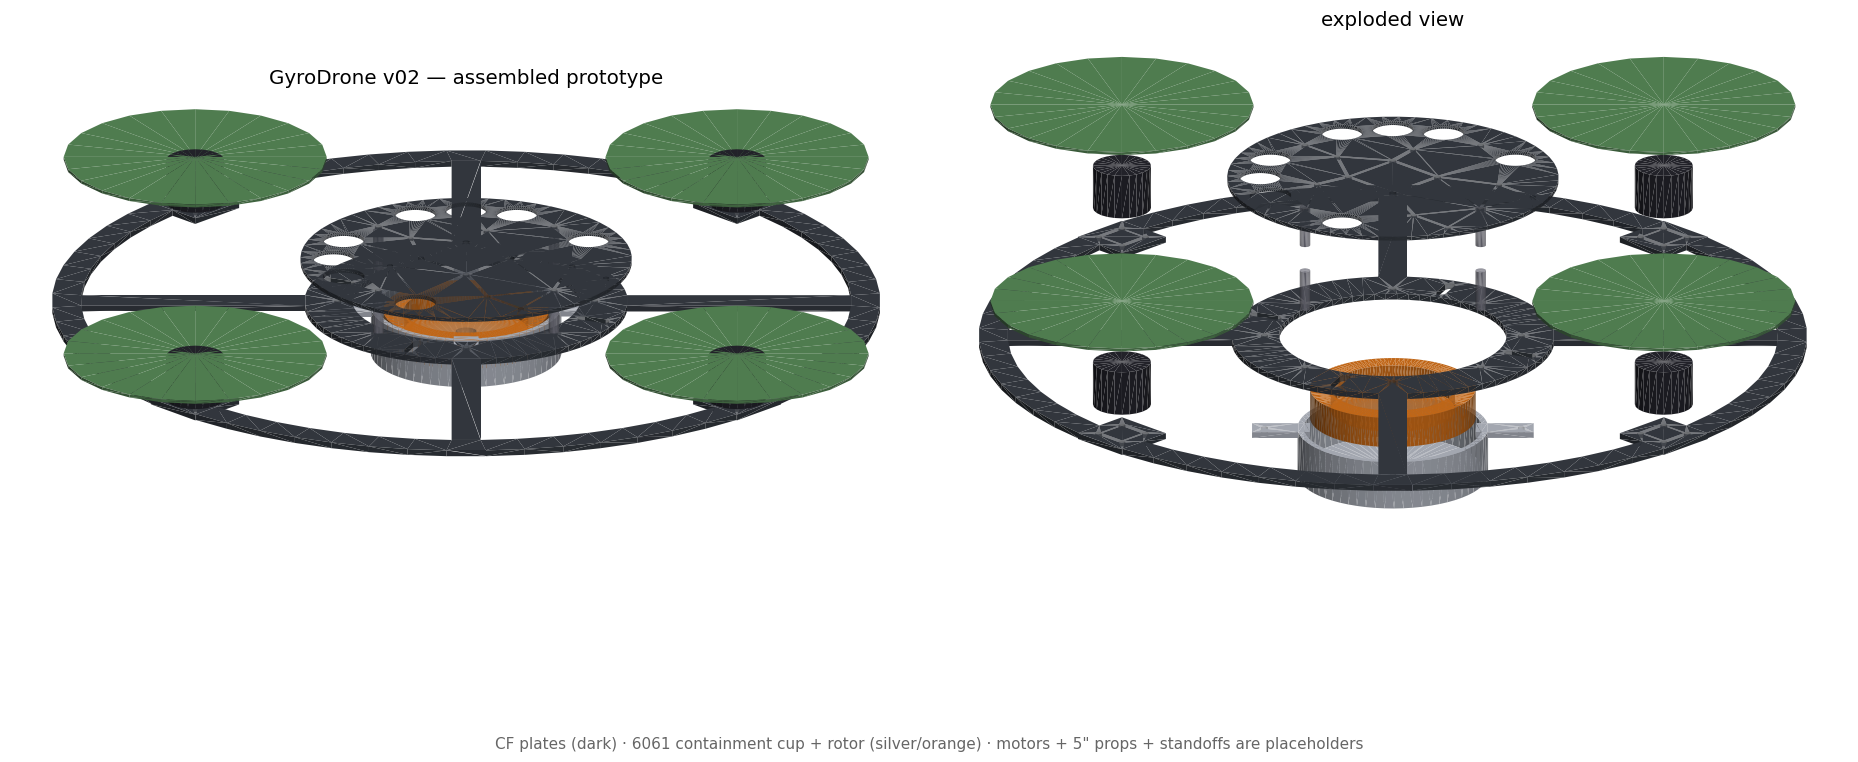
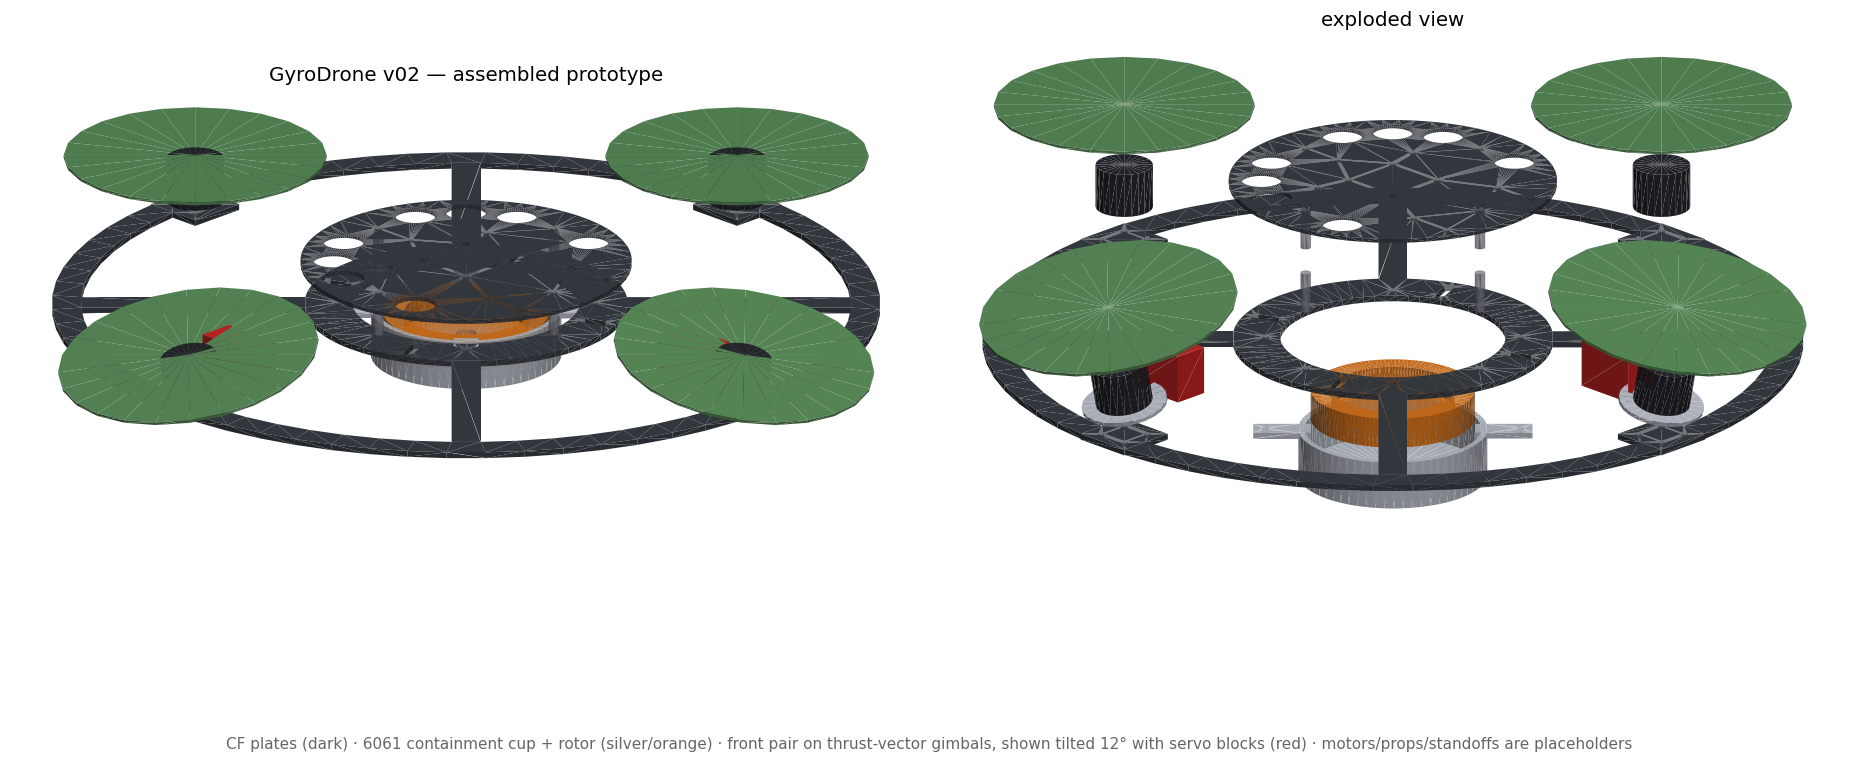
feat: show thrust-vector gimbals in prototype render
The front motor pair now renders tilted 12 deg on its pivot with motor
plate + Savox servo block (red), per GIMBAL_SPEC — the project's
namesake feature was invisible with identical placeholder motors.

diff --git a/tools/render_assembly.py b/tools/render_assembly.py
@@ -52,6 +52,31 @@ def pol(r, deg):
     return r * math.cos(a), r * math.sin(a)
 
 
+def box(w, d, h, x=0.0, y=0.0, z=0.0):
+    """Axis-aligned cuboid as triangles, base center at (x,y,z)."""
+    xs, ys, zs = w / 2, d / 2, h
+    p = np.array([[x - xs, y - ys, z], [x + xs, y - ys, z],
+                  [x + xs, y + ys, z], [x - xs, y + ys, z],
+                  [x - xs, y - ys, z + zs], [x + xs, y - ys, z + zs],
+                  [x + xs, y + ys, z + zs], [x - xs, y + ys, z + zs]])
+    quads = [(0, 3, 2, 1), (4, 5, 6, 7), (0, 1, 5, 4),
+             (1, 2, 6, 5), (2, 3, 7, 6), (3, 0, 4, 7)]
+    tris = []
+    for a, b, c, dq in quads:
+        tris.append([p[a], p[b], p[c]])
+        tris.append([p[a], p[c], p[dq]])
+    return np.array(tris)
+
+
+def rot_about(tris, pivot, axis, deg):
+    """Rotate triangle array about an axis through pivot (Rodrigues)."""
+    u = np.array(axis, dtype=float); u /= np.linalg.norm(u)
+    th = math.radians(deg)
+    K = np.array([[0, -u[2], u[1]], [u[2], 0, -u[0]], [-u[1], u[0], 0]])
+    R = np.eye(3) + math.sin(th) * K + (1 - math.cos(th)) * (K @ K)
+    return (tris - pivot) @ R.T + pivot
+
+
 def assembly(explode=0.0):
     """Return list of (tris, base_color). explode = extra z separation."""
     e = explode
@@ -72,10 +97,29 @@ def assembly(explode=0.0):
 
     parts += [(bot, grey_cf), (top, grey_cf), (cup, alu), (rot, orange)]
 
+    servo = (0.80, 0.15, 0.15)
+    GIMBALED = (0, 90)          # front pair: thrust-vector gimbals (GIMBAL_SPEC)
     for ang in (0, 90, 180, 270):
         x, y = pol(185, ang)
-        parts.append((cylinder(14, 22, x, y, 3 + 0.5 * e), dark))          # motor
-        parts.append((cylinder(63.5, 1.5, x, y, 25 + 1.5 * e), prop))      # prop disc
+        motor = cylinder(14, 22, x, y, 5 + 0.5 * e)
+        disc = cylinder(63.5, 1.5, x, y, 27 + 1.5 * e)
+        if ang in GIMBALED:
+            # single-axis gimbal: motor plate pivots about the spanwise
+            # (tangential) axis, tilted here to make the DOF visible
+            a = math.radians(ang)
+            tangent = (-math.sin(a), math.cos(a), 0.0)
+            pivot = np.array([x, y, 5 + 0.5 * e])
+            plate = cylinder(21, 2, x, y, 3 + 0.5 * e)          # motor plate
+            tilt = 12.0
+            parts.append((rot_about(plate, pivot, tangent, tilt), alu))
+            parts.append((rot_about(motor, pivot, tangent, tilt), dark))
+            parts.append((rot_about(disc, pivot, tangent, tilt), prop))
+            # servo mount block beside the pivot (Savox SH-0257MG)
+            sx_, sy_ = pol(185 - 30, ang)
+            parts.append((box(18, 32, 24, sx_, sy_, 3 + 0.5 * e), servo))
+        else:
+            parts.append((motor, dark))
+            parts.append((disc, prop))
         sx, sy = pol(60, ang)
         parts.append((cylinder(2.5, 20, sx, sy, 3 + e), (0.5, 0.5, 0.55)))  # standoff
     return parts
@@ -118,7 +162,8 @@ if __name__ == "__main__":
     render(axes[1], assembly(30.0), title="exploded view")
     fig.text(0.5, 0.03,
              "CF plates (dark) · 6061 containment cup + rotor (silver/orange) · "
-             "motors + 5\" props + standoffs are placeholders",
+             "front pair on thrust-vector gimbals, shown tilted 12° with servo "
+             "blocks (red) · motors/props/standoffs are placeholders",
              ha="center", fontsize=10, color="0.4")
     plt.tight_layout()
     out = ROOT / "cad" / "preview_assembly.png"